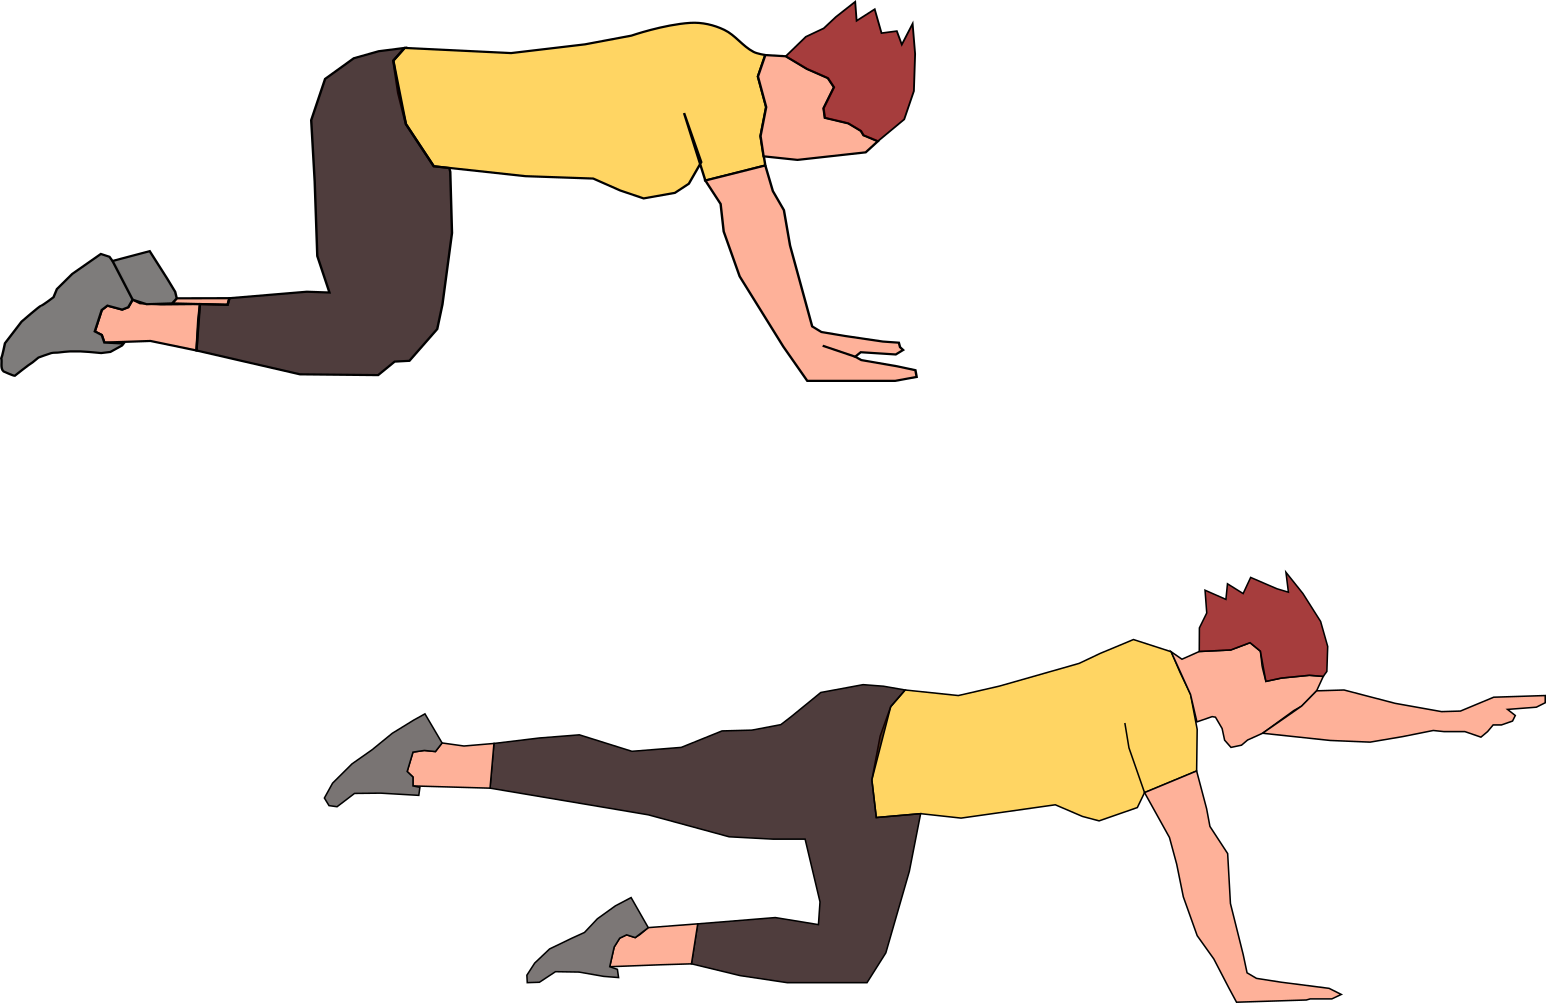
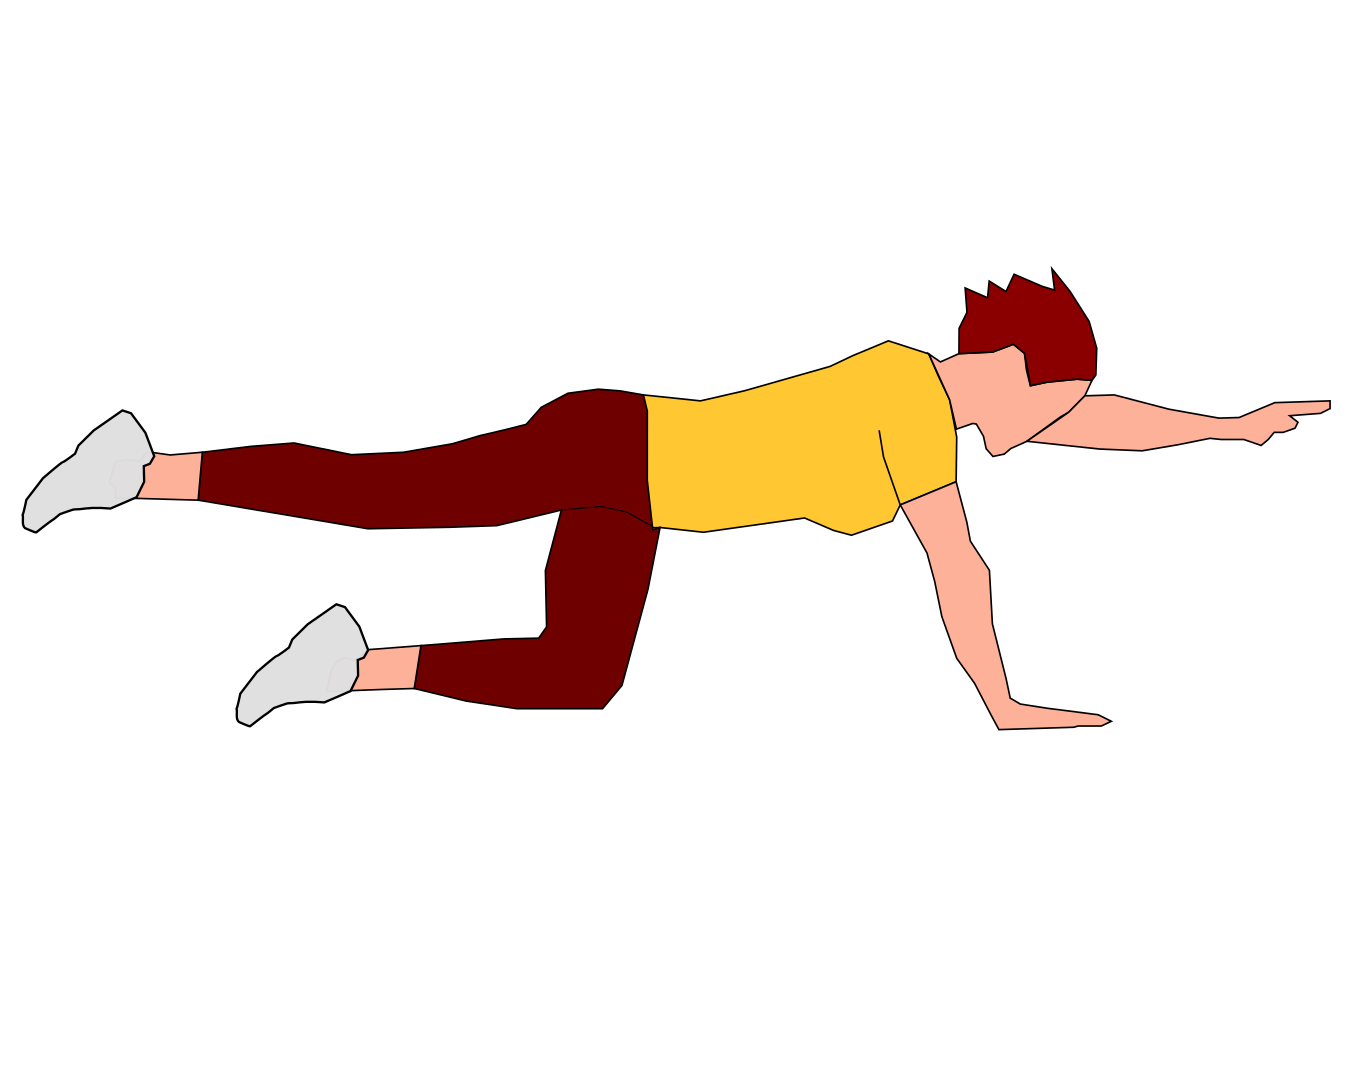
finished quadruped exercise

diff --git a/WorkoutModule/Models/DefinitionFactory.cs b/WorkoutModule/Models/DefinitionFactory.cs
@@ -98,7 +98,7 @@ namespace WorkoutModule.Models
                     "Spanne Gesäß- und Bauchmuskulatur bewußt an!",
                     "Achte darauf, kein Hohlkreuz zu bilden!",
                 },
-                Duration = 10,
+                Duration = 30,
                 ImageFile = "quadruped_base.png",
                 SwitchLeftRight = true,
                 SwitchTime=5,
@@ -107,7 +107,7 @@ namespace WorkoutModule.Models
 
             lst.Add(new ExerciseDefinition()
             {
-                Name = "Quadruped",
+                Name = "Quadruped Crunsh",
                 Id = "Quadruped Moderate",
                 Description = "Übung für Körperspannung und Hüftstabilität",
                 Execution = new List<string>()
@@ -118,8 +118,8 @@ namespace WorkoutModule.Models
                     "Achte darauf, kein Hohlkreuz zu bilden!",
                     "Führe Ellenbogen und Knie unter dem Oberkörper zusammen und Strecke sie wieder aus!"
                 },
-                Duration = 60,
-                ImageFile = "quadruped_stretch.png",
+                Duration = 45,
+                ImageFile = "quadruped_crunsh.gif",
                 SwitchLeftRight = true,
                 SwitchTime=5,
                 Level = Level.Moderate
@@ -127,7 +127,7 @@ namespace WorkoutModule.Models
 
             lst.Add(new ExerciseDefinition()
             {
-                Name = "Quadruped",
+                Name = "Quadruped Crawl",
                 Id = "Quadruped Advanced",
                 Description = "Übung für Körperspannung und Hüftstabilität",
                 Execution = new List<string>()
@@ -146,7 +146,7 @@ namespace WorkoutModule.Models
 
             lst.Add(new ExerciseDefinition()
             {
-                Name = "Quadruped",
+                Name = "Quadruped Crawl Crunsh",
                 Id = "Quadruped Epic",
                 Description = "Übung für Körperspannung und Hüftstabilität",
                 Execution = new List<string>()
@@ -157,9 +157,9 @@ namespace WorkoutModule.Models
                     "Achte darauf, kein Hohlkreuz zu bilden!",
                     "Strecke abwechselnd die gegenüberliegenden Gliedmaßen aus!"
                 },
-                Duration = 60,
-                ImageFile = "quadruped_crawl_stretch.png",
-                SwitchLeftRight = false,
+                Duration = 45,
+                ImageFile = "quadruped_crawl_crunsh.gif",
+                SwitchLeftRight = true,
                 Level = Level.Epic
             });
 
